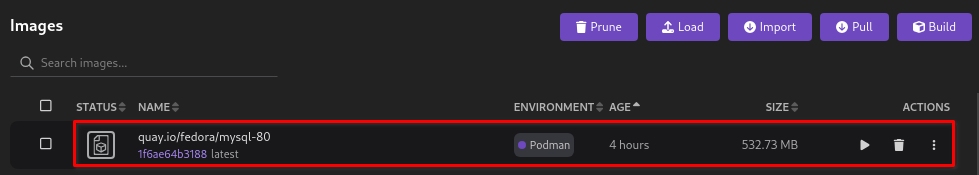
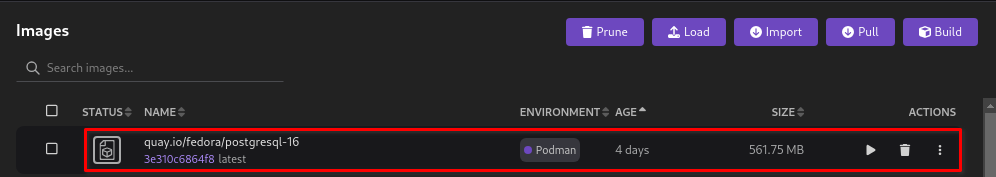
docs(website): incorporated SME comments Signed-off-by: Shipra Singh <shipsing@redhat.com>

diff --git a/website/tutorial/interacting-with-a-database-server.md b/website/tutorial/interacting-with-a-database-server.md
@@ -10,28 +10,27 @@ tags: [podman-desktop, interacting-with-databases]
 
 This tutorial covers the following end-to-end tasks required to interact with a database server from within the Podman Desktop UI:
 
-- Pulling a SQL server image
-- Creating a SQL server instance
+- Pulling a database server image
+- Creating a database server instance
 - Accessing the instance from terminal
 
 For creating a database instance, you can use one of the following options:
 
-- [Build a MySQL server image using a container or docker file](/docs/containers/images/building-an-image)
-- [Import a MySQL server image from your local machine](/tutorial/managing-your-application-resources#managing-images) using the **Import** button on the _Images_ component page
-- Pull a MySQL server image from a registry (covered in this tutorial)
+- [Build a database server image using a container or docker file](/docs/containers/images/building-an-image)
+- [Import a database server image from your local machine](/tutorial/managing-your-application-resources#managing-images) using the **Import** button on the _Images_ component page
+- Pull a database server image from a registry (covered in this tutorial)
 
-This tutorial focuses on creating a MySQL server instance by pulling a MySQL server image from the _quay.io_ registry.
+This tutorial focuses on creating a PostgreSQL server instance by pulling the `quay.io/fedora/postgresql-16` image from the _quay.io_ registry.
 
 ## Before you begin
 
 Make sure you have:
 
-- [Installed Podman Desktop application](/docs/installation).
+- [Installed Podman Desktop](/docs/installation).
 - [A running Podman machine](/docs/podman/creating-a-podman-machine).
-- [Configured the _quay.io_ registry](/docs/containers/registries) to pull a MySQL Server image, such as `quay.io/fedora/mysql-80`.
 - A developer role.
 
-## Pulling a MySQL server image
+## Pulling a PostgreSQL server image
 
 1. Click **Images** in the left navigation pane.
 1. Click the **Pull** button.
@@ -41,31 +40,38 @@ Make sure you have:
    ![clicking the pull button](img/click-pull-image.png)
 1. Click **Done**.
    ![image pulled successfully](img/image-successfully-pulled.png)
-1. View the newly created `quay.io/fedora/mysql-80` image on the same page.
+1. View the newly created `quay.io/fedora/postgresql-16` image on the same page.
    ![image added on the page](img/new-image-added.png)
 
-## Creating a MySQL server instance
+## Creating a PostgreSQL server instance
 
 1. Click **Images** in the left navigation pane.
-1. Click the **Run Image** icon corresponding to the MySQL server image you want to run.
+1. Click the **Run Image** icon corresponding to the PostgreSQL server image you want to run.
    ![running an image](img/run-image-icon.png)
-1. Configure the basic details, such as container name, port mapping, and environment variables for the MySQL server instance.
+1. Configure the basic details, such as container name, port mapping, and environment variables for the PostgreSQL server instance.
 1. Click **Start Container**.
-   ![starting a container](img/starting-a-mysql-container.png)
+   ![starting a container](img/starting-a-postgresql-container.png)
 1. View the successful operation notification in the _Tty_ tab of the _Container Details_ page.
-   ![sql server started](img/my-sql-server-started.png)
+   ![sql server started](img/postgresql-server-started.png)
 1. Click the **close** icon on the right hand side of the page.
-1. View the newly created MySQL server container on the _Containers_ page.
+1. Click **Containers** in the left navigation pane.
+1. View the newly created PostgreSQL server container on the page.
    ![database container created](img/database-container-created.png)
 
 ## Accessing the instance from terminal
 
 1. Click **Containers** in the left navigation pane.
-1. Click the created `mysql-database` container. The _Container Details_ page opens.
+1. Click the created `postgresql-database` container. The _Container Details_ page opens.
    ![database container](img/database-container-created.png)
 
 1. Select the **Terminal** tab.
-1. Run the `mysql -uroot` command to connect to the database server as an administrator. The prompt changes to `mysql>`.
-   ![connect to the SQL server instance as DBA](img/connect-to-sql-as-dba.png)
-1. Interact with the database server by running any mysql commands, such as `SHOW DATABASES;`:
+1. Run the `psql` command to connect to the database server. The prompt changes to `postgres=#`.
+   ![connect to the PostgreSQL server instance](img/connect-to-postgresql.png)
+1. Interact with the database server by running any PostgreSQL commands, such as `\list`:
    ![interact with the database](img/interacted-with-database.png)
+
+:::note
+
+To access this database server instance from inside a running application container, use the `podman exec -it postgresql-database /bin/bash` command.
+
+:::

diff --git a/website/tutorial/running-a-pod-using-a-container-docker-file.md b/website/tutorial/running-a-pod-using-a-container-docker-file.md
@@ -110,8 +110,8 @@ CMD ["node", "app.js"]
 8. Check the **Container Details** page for information, such as summary, logs, YAML code, and to access the terminal.
    ![container details page](img/container-details-page.png)
 
-9. Click the close icon on the right hand side of the page.
-10. View the newly created container on the **Containers** page
+9. Click the **close** icon on the right hand side of the page.
+10. View the newly created container on the **Containers** page.
 
 ## Creating and running a pod
 
